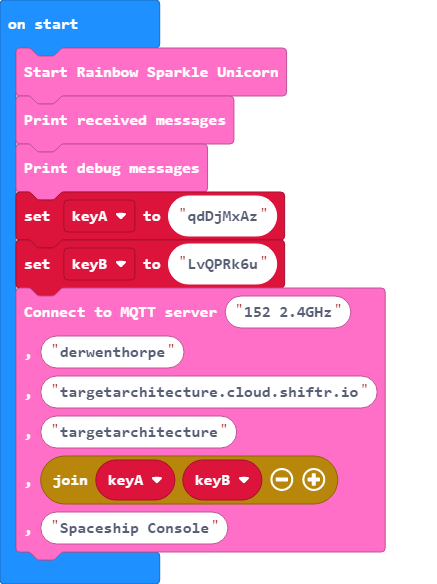
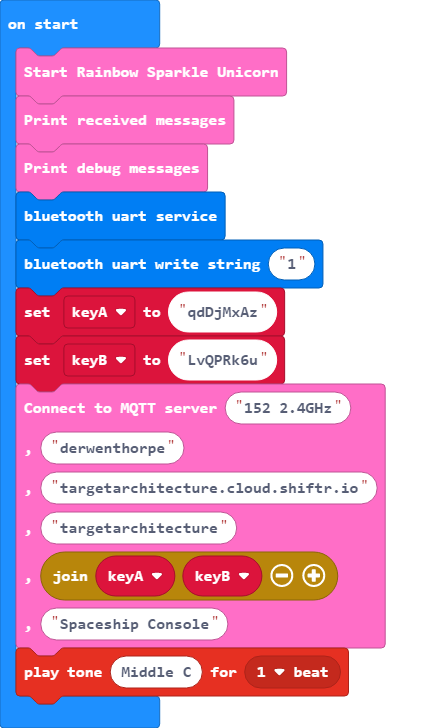
Update pxt.json, main.blocks, main.ts, ns.ts, IoT.ts

diff --git a/IoT.ts b/IoT.ts
@@ -72,9 +72,16 @@ namespace RainbowSparkleUnicorn.IoT {
 
     function connectToWiFi(WiFiName: string, WiFiPassword: string): boolean{
 
+        //reset wifi 
+        printDebugMsgs("Reset Wifi");
+        stopWifi();
+
         printDebugMsgs("Connecting to Wifi");
 
-        _sendMessage("T3," + WiFiName + "," + WiFiPassword);
+        for (let index = 0; index <= 5; index++) {
+            basic.pause(1000);
+            _sendMessage("T3," + WiFiName + "," + WiFiPassword);
+        }    
 
         //try waiting 1 second and try 5 times        
         for (let index = 0; index <= 5; index++) {
@@ -83,6 +90,7 @@ namespace RainbowSparkleUnicorn.IoT {
                 return true;
             }
             printDebugMsgs("Wifi loop " + index);
+            _sendMessage("T3," + WiFiName + "," + WiFiPassword);
         }
 
         //reset wifi 
@@ -95,7 +103,8 @@ namespace RainbowSparkleUnicorn.IoT {
                 return true;
             }
 
-              printDebugMsgs("Wifi loop " + index);
+            printDebugMsgs("Wifi loop " + index);
+            _sendMessage("T3," + WiFiName + "," + WiFiPassword);
         }
 
         return false;

diff --git a/ns.ts b/ns.ts
@@ -68,4 +68,16 @@ namespace RainbowSparkleUnicorn {
     export function printDebugMessages(): void {
         _printDebugMsgs = true;
     }
+
+    /**
+     * Write a comment
+     * @param theComment eg:'write comment here'
+     */
+    //% subcategory="Expert" 
+    //% group="Debug"       
+    //% block="Restart ESP32"    
+    //% block=comment|%theComment
+    export function comment(theComment: string): void {
+        // do nothing
+    }
 }

diff --git a/main.ts b/main.ts
@@ -11,3 +11,4 @@ RainbowSparkleUnicorn.IoT.connectToInterWeb(
 "" + keyA + keyB,
 "Spaceship Console"
 )
+music.playTone(262, music.beat(BeatFraction.Whole))
